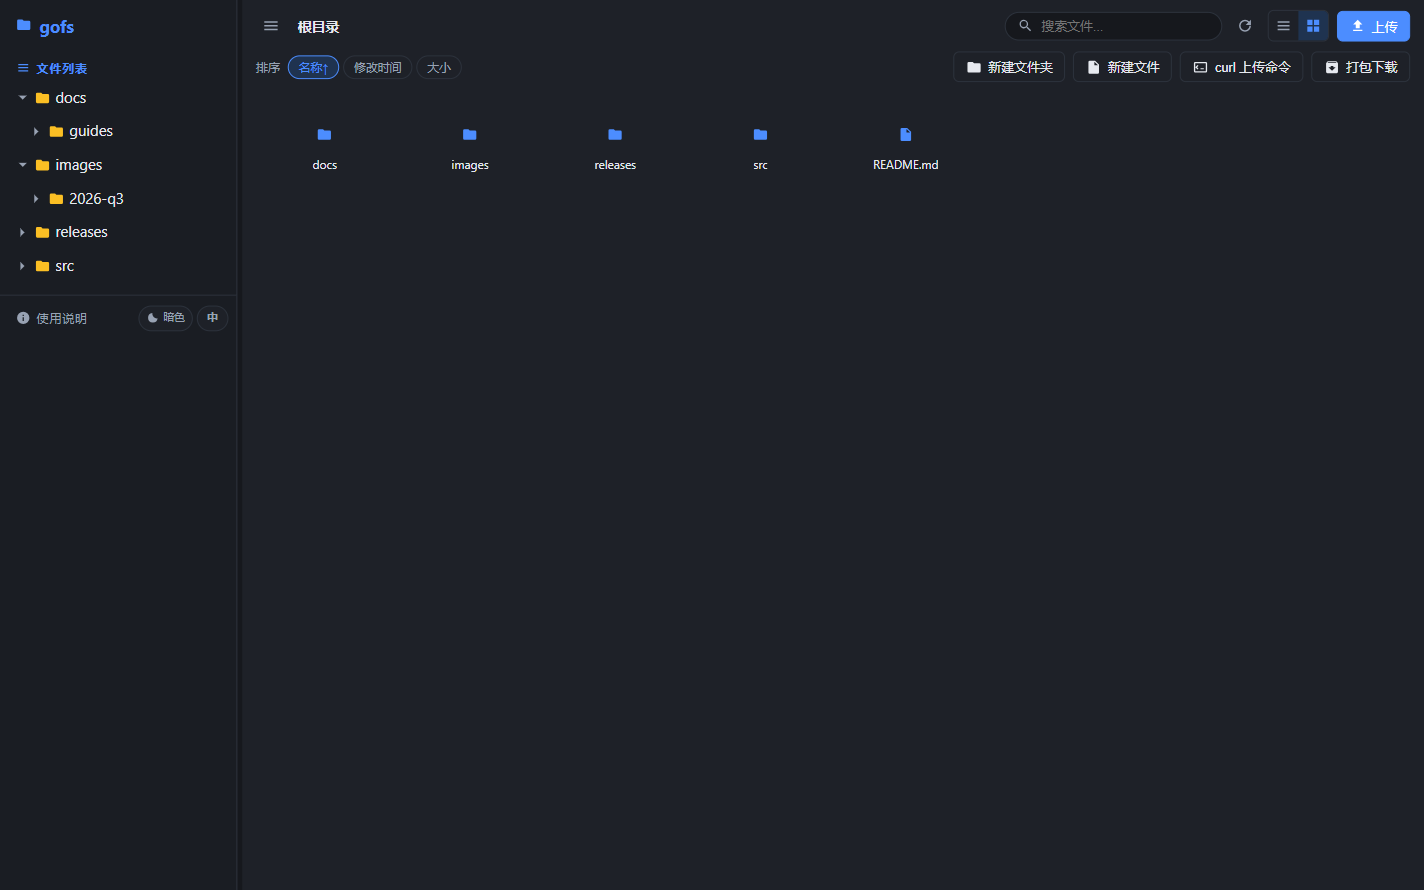
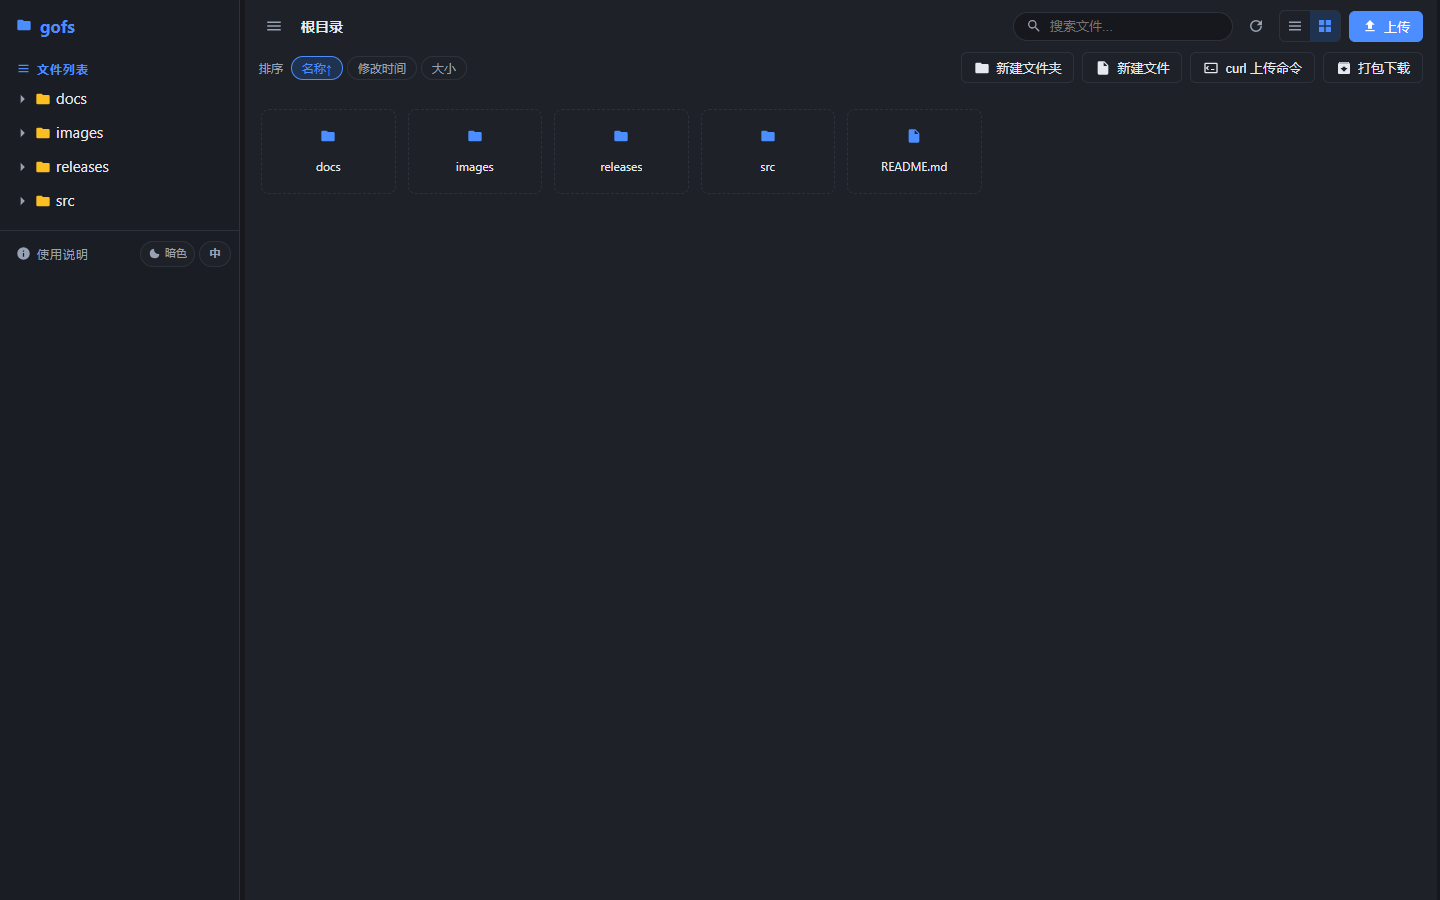
style(grid): give file cards a dashed border by default
The grid view cards previously had a transparent border that only became
visible on hover, which made the clickable area hard to read. Use a dashed
border so each card's bounds are visible at rest, and switch the hover
border to the accent color to keep the interaction affordance.

Regenerate docs/screenshots/03-grid-dark-zh.png to match the new look.

diff --git a/web/dist/assets/index-D7ygD6cJ.css b/web/dist/assets/index-D7ygD6cJ.css
@@ -1,0 +1,1 @@
+:root{--bg: #f7f8fa;--bg-panel: #ffffff;--bg-sidebar: #f0f2f5;--bg-hover: #eef1f6;--bg-active: #e6efff;--border: #e2e6ec;--text: #1f2733;--text-secondary: #6b7686;--accent: #3b82f6;--accent-hover: #2563eb;--accent-soft: #dbeafe;--danger: #ef4444;--danger-strong: #dc2626;--success: #22c55e;--warn: #f59e0b;--kind-media: #8b5cf6;--kind-archive: #d97706;--shadow: 0 4px 24px rgba(0, 0, 0, .12);--radius: 8px;color-scheme:light}:root[data-theme=dark]{--bg: #16181d;--bg-panel: #1e2128;--bg-sidebar: #1a1d23;--bg-hover: #262b34;--bg-active: #2b3a55;--border: #2c323c;--text: #e6e9ef;--text-secondary: #98a2b3;--accent: #4c8dff;--accent-hover: #6ba1ff;--accent-soft: #1f3350;--danger: #f87171;--danger-strong: #ef4444;--success: #4ade80;--warn: #fbbf24;--kind-media: #a78bfa;--kind-archive: #fbbf24;--shadow: 0 4px 24px rgba(0, 0, 0, .5);color-scheme:dark}*{box-sizing:border-box}html,body,#app{height:100%;margin:0}body{font-family:-apple-system,BlinkMacSystemFont,Segoe UI,PingFang SC,Microsoft YaHei,Roboto,Helvetica,Arial,sans-serif;color:var(--text);background:var(--bg);font-size:14px;line-height:1.5}.app{display:flex;height:100vh;overflow:hidden}.sidebar{width:240px;min-width:240px;background:var(--bg-sidebar);border-right:1px solid var(--border);display:flex;flex-direction:column}.sidebar-head{display:flex;align-items:center;justify-content:space-between;padding:14px 12px 12px 16px}.logo{display:flex;align-items:center;gap:8px;font-size:17px;font-weight:700;color:var(--accent)}.sidebar-body{flex:1;overflow-y:auto;padding:0 8px 12px}.sidebar-label{display:flex;align-items:center;gap:6px;font-size:12px;text-transform:uppercase;letter-spacing:.08em;color:var(--text-secondary);padding:8px 8px 4px}.sidebar-label-icon{display:inline-flex;align-items:center;line-height:0;flex-shrink:0}.sidebar-label-icon svg{display:block;width:15px;height:15px}.sidebar-foot{display:flex;align-items:center;gap:4px;padding:10px 8px;border-top:1px solid var(--border);color:var(--text-secondary);font-size:12px}.sidebar-settings{display:flex;align-items:center;gap:4px;margin-left:auto}.setting-btn{display:inline-flex;align-items:center;gap:4px;height:26px;padding:0 7px;border:1px solid var(--border);border-radius:13px;background:var(--bg-panel);color:var(--text-secondary);font-size:11px;cursor:pointer;transition:background .15s,color .15s,border-color .15s}.setting-btn:hover{background:var(--bg-hover);color:var(--text);border-color:var(--accent)}.setting-icon{display:inline-flex;align-items:center;line-height:0}.setting-icon svg{display:block;width:13px;height:13px}.setting-text{line-height:1;white-space:nowrap}.setting-lang{line-height:1;font-weight:600;letter-spacing:.02em;min-width:16px;text-align:center}.tree{list-style:none;margin:0;padding:0}.tree-children{list-style:none;margin:0;padding:0 0 0 14px}.tree-node{position:relative;display:flex;align-items:center;gap:5px;height:34px;padding:0 8px;border-radius:6px;cursor:pointer;white-space:nowrap;overflow:hidden;color:var(--text);font-size:15px;transition:padding-right .12s ease}.tree-icon{display:inline-flex;align-items:center;line-height:0}.tree-icon svg{display:block}.tree-node:hover{background:var(--bg-hover);padding-right:60px}.tree-node.active{background:var(--bg-active);color:var(--accent);font-weight:600}.tree-toggle{width:14px;flex-shrink:0;display:inline-flex;align-items:center;justify-content:center;color:var(--text-secondary)}.tree-icon{flex-shrink:0;color:var(--warn)}.tree-name{overflow:hidden;text-overflow:ellipsis}.main{flex:1;display:flex;flex-direction:column;overflow:hidden;background:var(--bg-panel)}.toolbar{border-bottom:1px solid var(--border);background:var(--bg-panel)}.toolbar-row{display:flex;align-items:center;gap:8px;padding:10px 14px}.toolbar-secondary{padding-top:0;padding-bottom:10px;flex-wrap:wrap}.toolbar-spacer{flex:1}.breadcrumb{display:flex;align-items:center;gap:2px;overflow:hidden;white-space:nowrap;min-width:0;flex:1}.crumb{color:var(--text-secondary);text-decoration:none;cursor:pointer;padding:2px 4px;border-radius:4px;max-width:180px;overflow:hidden;text-overflow:ellipsis;white-space:nowrap;flex-shrink:1;min-width:0}.crumb:hover{color:var(--accent);background:var(--bg-hover)}.crumb.current{color:var(--text);font-weight:600}.crumb-sep{color:var(--text-secondary);opacity:.6}.search-box{display:flex;align-items:center;gap:6px;background:var(--bg);border:1px solid var(--border);border-radius:16px;padding:5px 12px;color:var(--text-secondary);min-width:180px}.search-box input{border:none;outline:none;background:transparent;color:var(--text);font-size:13px;width:100%}.search-clear{border:none;background:none;color:var(--text-secondary);cursor:pointer;font-size:16px;line-height:1;padding:0}.view-toggle{display:flex;border:1px solid var(--border);border-radius:6px;overflow:hidden}.view-toggle .icon-btn{border-radius:0}.sort-group{display:flex;align-items:center;gap:4px}.sort-label{color:var(--text-secondary);font-size:12px;margin-right:4px}.chip{border:1px solid var(--border);background:transparent;color:var(--text-secondary);padding:3px 10px;border-radius:14px;cursor:pointer;font-size:12px}.chip:hover{background:var(--bg-hover)}.chip.active{background:var(--accent-soft);border-color:var(--accent);color:var(--accent)}.btn{display:inline-flex;align-items:center;gap:6px;border:1px solid var(--border);background:var(--bg-panel);color:var(--text);padding:6px 12px;border-radius:6px;cursor:pointer;font-size:13px}.btn>span,.icon-btn>span,.search-box>span,.file-icon{display:inline-flex;align-items:center;line-height:0}.btn svg,.icon-btn svg,.search-box svg,.file-icon svg{display:block;vertical-align:middle}.btn:hover{background:var(--bg-hover)}.btn-primary{background:var(--accent);border-color:var(--accent);color:#fff}.btn-primary:hover{background:var(--accent-hover)}.icon-btn{display:inline-flex;align-items:center;justify-content:center;border:none;background:transparent;color:var(--text-secondary);width:30px;height:30px;border-radius:6px;cursor:pointer}.icon-btn:hover{background:var(--bg-hover);color:var(--text)}.icon-btn.active{background:var(--accent-soft);color:var(--accent)}.icon-btn.danger:hover{color:var(--danger);background:#ef44441a}.file-area{flex:1;min-height:0;overflow-y:auto;position:relative}.file-loading{display:flex;flex-direction:row;align-items:center;justify-content:center;height:100%;color:var(--text-secondary);gap:12px}.file-list{min-width:620px}.file-list-head,.file-row{display:grid;grid-template-columns:minmax(220px,1fr) 90px 90px 140px 130px;align-items:center;gap:8px;padding:0 14px}.file-list-head{position:sticky;top:0;background:var(--bg-panel);border-bottom:1px solid var(--border);color:var(--text-secondary);font-size:12px;padding-top:8px;padding-bottom:8px;z-index:2}.file-row{border-bottom:1px solid var(--border);cursor:pointer;min-height:44px}.file-row:hover{background:var(--bg-hover)}.col-name{display:flex;align-items:center;gap:10px;overflow:hidden}.file-name{overflow:hidden;text-overflow:ellipsis;white-space:nowrap}.file-icon{display:inline-flex;flex-shrink:0;color:var(--text-secondary)}.file-icon.kind-dir{color:var(--warn)}.file-icon.kind-image,.file-icon.kind-video,.file-icon.kind-audio{color:var(--kind-media)}.file-icon.kind-pdf{color:var(--danger)}.file-icon.kind-code,.file-icon.kind-json,.file-icon.kind-markdown,.file-icon.kind-text{color:var(--accent)}.file-icon.kind-archive{color:var(--kind-archive)}.col-type,.col-size,.col-mtime{color:var(--text-secondary);font-size:13px;overflow:hidden;text-overflow:ellipsis;white-space:nowrap}.col-actions{display:flex;justify-content:flex-end;gap:2px;opacity:0;transition:opacity .15s}.file-row:hover .col-actions{opacity:1}.file-grid{display:grid;grid-template-columns:repeat(auto-fill,minmax(120px,1fr));gap:12px;padding:16px}.file-card{display:flex;flex-direction:column;align-items:center;gap:8px;padding:18px 8px;border:1px dashed var(--border);border-radius:var(--radius);cursor:pointer;transition:background .15s,border-color .15s}.file-card:hover{background:var(--bg-hover);border-color:var(--accent)}.file-card-icon{color:var(--text-secondary)}.file-card-icon.kind-dir{color:var(--warn)}.file-card-icon.kind-image,.file-card-icon.kind-video,.file-card-icon.kind-audio{color:var(--kind-media)}.file-card-icon.kind-pdf{color:var(--danger)}.file-card-icon.kind-code,.file-card-icon.kind-json,.file-card-icon.kind-markdown,.file-card-icon.kind-text{color:var(--accent)}.file-card-icon.kind-archive{color:var(--kind-archive)}.file-card-name{text-align:center;word-break:break-all;font-size:12px;max-width:100%;display:-webkit-box;-webkit-line-clamp:2;-webkit-box-orient:vertical;overflow:hidden}.error-banner{background:#ef44441a;color:var(--danger);padding:8px 14px;border-bottom:1px solid var(--border)}.spinner{display:inline-block;width:14px;height:14px;border:2px solid var(--border);border-top-color:var(--accent);border-radius:50%;animation:spin .7s linear infinite}@keyframes spin{to{transform:rotate(360deg)}}.preview-overlay{position:fixed;inset:0;background:#00000080;display:flex;align-items:center;justify-content:center;z-index:100;padding:24px}.preview-modal{width:min(960px,100%);height:min(720px,100%);background:var(--bg-panel);border-radius:var(--radius);box-shadow:var(--shadow);display:flex;flex-direction:column;overflow:hidden}.preview-head{display:flex;align-items:center;gap:12px;padding:12px 16px;border-bottom:1px solid var(--border)}.preview-title{font-weight:600;font-size:15px;overflow:hidden;text-overflow:ellipsis;white-space:nowrap}.preview-meta{color:var(--text-secondary);font-size:12px;white-space:nowrap}.preview-actions{margin-left:auto;display:flex;gap:6px}.preview-body{flex:1;overflow:auto;position:relative}.preview-center{display:flex;align-items:center;justify-content:center;height:100%;min-height:200px}.preview-center img{max-width:100%;max-height:100%;object-fit:contain}.preview-iframe{width:100%;height:100%;border:none}.audio-box{display:flex;flex-direction:column;align-items:center;gap:20px;color:var(--text-secondary)}.binary-box{display:flex;flex-direction:column;align-items:center;gap:8px;color:var(--text-secondary)}.binary-box p{margin:0}.preview-text{padding:16px}.preview-error{padding:40px;text-align:center;color:var(--text-secondary)}.code-block{font-family:SF Mono,JetBrains Mono,Fira Code,Menlo,Consolas,monospace;font-size:13px;line-height:1.6;white-space:pre;overflow:auto;margin:0;padding:16px;background:var(--bg);border-radius:var(--radius);border:1px solid var(--border)}.markdown-body{line-height:1.7;padding:8px}.markdown-body h1,.markdown-body h2,.markdown-body h3{border-bottom:1px solid var(--border);padding-bottom:6px}.markdown-body code{background:var(--bg);padding:2px 5px;border-radius:4px;font-family:SF Mono,Menlo,Consolas,monospace;font-size:.9em}.markdown-body pre{background:var(--bg);padding:12px;border-radius:6px;overflow:auto}.markdown-body pre code{background:none;padding:0}.editor-wrap{display:flex;flex-direction:column;gap:10px;height:100%}.editor{flex:1;min-height:320px;font-family:SF Mono,Menlo,Consolas,monospace;font-size:13px;line-height:1.6;padding:12px;background:var(--bg);color:var(--text);border:1px solid var(--border);border-radius:var(--radius);resize:none;outline:none}.editor-actions{display:flex;gap:8px;justify-content:flex-end}.preview-foot{display:flex;align-items:center;gap:6px;padding:6px 12px 6px 16px;border-top:1px solid var(--border);overflow:hidden;white-space:nowrap}.preview-hash{flex:1;min-width:0;overflow:hidden;text-overflow:ellipsis;font-family:ui-monospace,SFMono-Regular,Menlo,Consolas,monospace}.hash-copy{flex-shrink:0;width:24px;height:24px}.hash-copy svg{width:14px;height:14px}.upload-manager{position:fixed;right:16px;bottom:16px;width:320px;z-index:90;display:flex;flex-direction:column;gap:8px}.upload-item{background:var(--bg-panel);border:1px solid var(--border);border-radius:var(--radius);box-shadow:var(--shadow);padding:10px 12px}.upload-info{display:flex;justify-content:space-between;align-items:center;margin-bottom:6px}.upload-name{overflow:hidden;text-overflow:ellipsis;white-space:nowrap;font-size:13px}.upload-status.done{color:var(--success)}.upload-status.error{color:var(--danger)}.upload-bar{height:4px;background:var(--bg);border-radius:2px;overflow:hidden}.upload-bar-fill{height:100%;background:var(--accent);transition:width .2s}.upload-bar-fill.done{background:var(--success)}.upload-bar-fill.error{background:var(--danger)}.upload-percent{font-size:11px;color:var(--text-secondary);display:block;text-align:right;margin-top:4px}.modal-overlay{position:fixed;inset:0;background:#00000073;display:flex;align-items:center;justify-content:center;z-index:1000}.modal-box{background:var(--bg-panel);border-radius:var(--radius);box-shadow:var(--shadow);padding:20px;width:380px;max-width:90vw}.modal-title{font-size:15px;font-weight:600;margin-bottom:12px;color:var(--text)}.modal-message{font-size:13px;color:var(--text-secondary);margin-bottom:16px;line-height:1.6}.modal-input{width:100%;padding:8px 12px;border:1px solid var(--border);border-radius:6px;font-size:13px;background:var(--bg);color:var(--text);margin-bottom:16px;box-sizing:border-box}.modal-input:focus{outline:none;border-color:var(--accent)}.modal-actions{display:flex;justify-content:flex-end;gap:8px}.btn-danger{background:var(--danger);color:#fff;border-color:var(--danger)}.btn-danger:hover{background:var(--danger-strong)}#toast-container{position:fixed;top:20px;right:20px;z-index:2000;display:flex;flex-direction:column;gap:8px}.toast{padding:10px 16px;border-radius:6px;box-shadow:var(--shadow);font-size:13px;background:var(--bg-panel);color:var(--text);border-left:3px solid var(--accent);animation:toast-in .2s ease;max-width:420px;word-break:break-all}.toast.success{border-left-color:var(--success)}.toast.error{border-left-color:var(--danger)}@keyframes toast-in{0%{opacity:0;transform:translate(20px)}to{opacity:1;transform:translate(0)}}.preview-modal-editing{width:90vw;max-width:1100px;height:85vh}.preview-dirty{font-size:12px;color:var(--warn);margin-left:8px;align-self:center}.editor-textarea{width:100%;height:100%;min-height:50vh;resize:none;border:1px solid var(--border);border-radius:6px;padding:12px;font-family:ui-monospace,SFMono-Regular,Menlo,Consolas,monospace;font-size:13px;line-height:1.6;background:var(--bg);color:var(--text);box-sizing:border-box}.editor-textarea:focus{outline:none;border-color:var(--accent)}.editor-preview{overflow:auto;height:100%;padding:8px 12px}.splitter{width:5px;cursor:col-resize;background:transparent;flex-shrink:0;transition:background .15s}.splitter:hover,.splitter:active{background:var(--accent-soft)}.sidebar{min-width:0}.help-btn{display:inline-flex;align-items:center;gap:6px;border:none;background:transparent;color:var(--text-secondary);font-size:12px;letter-spacing:.08em;cursor:pointer;padding:4px 8px;border-radius:6px}.help-btn:hover{background:var(--bg-hover);color:var(--text)}.help-btn-icon{display:inline-flex;align-items:center;line-height:0;flex-shrink:0}.help-btn-icon svg{display:block;width:15px;height:15px}.help-box{width:760px;max-width:94vw;height:84vh;max-height:720px;display:flex;flex-direction:column}.help-head{display:flex;align-items:center;gap:6px;margin-bottom:10px}.help-head .modal-title{margin:0}.help-head .btn{font-size:13px;padding:5px 10px}.help-tabs{display:flex;align-items:center;gap:4px}.help-tab{border:none;background:transparent;color:var(--text-secondary);font-size:13px;padding:6px 12px;border-radius:6px;cursor:pointer;transition:background .15s,color .15s}.help-tab:hover{background:var(--bg-hover);color:var(--text)}.help-tab.active{background:var(--accent-soft);color:var(--accent);font-weight:600}.help-agent{padding-right:4px}.help-md{margin:0;font-family:ui-monospace,SFMono-Regular,Menlo,Consolas,monospace;font-size:12px;line-height:1.45;white-space:pre-wrap;word-break:break-word;color:var(--text)}.help-content{flex:1;min-height:0;overflow-y:auto;font-size:13px;color:var(--text);line-height:1.7}.help-content h4{margin:14px 0 6px;font-size:13px;color:var(--accent)}.help-content h4:first-child{margin-top:0}.help-content ul{margin:0;padding-left:20px}.help-content li{margin:3px 0;color:var(--text-secondary)}.help-content code{background:var(--bg-hover);padding:1px 5px;border-radius:4px;font-size:12px;word-break:break-all}.tree-root-entry{font-weight:600}.sidebar-label-clickable{cursor:pointer;border-radius:6px;transition:background .15s,color .15s}.sidebar-label-clickable:hover{background:var(--bg-hover);color:var(--text)}.sidebar-label-clickable.active{color:var(--accent);font-weight:700}.tree-name{flex:1;min-width:0;overflow:hidden;text-overflow:ellipsis;white-space:nowrap}.tree-actions{position:absolute;right:4px;top:50%;transform:translateY(-50%);display:inline-flex;align-items:center;gap:2px;opacity:0;pointer-events:none;transition:opacity .12s}.tree-node:hover .tree-actions,.tree-node:focus-within .tree-actions{opacity:1;pointer-events:auto}.tree-action-btn{display:inline-flex;align-items:center;justify-content:center;width:18px;height:20px;padding:0;border:none;border-radius:4px;background:transparent;color:var(--text-secondary);cursor:pointer;transition:background .15s,color .15s}.tree-action-btn:hover{background:var(--bg-active);color:var(--accent)}.tree-action-btn.danger:hover{color:var(--danger-strong)}.tree-action-btn :deep(svg),.tree-action-btn svg{display:block;width:14px;height:14px}.help-page{display:flex;flex-direction:column;flex:1;min-height:0;overflow:hidden}.help-page-head{display:flex;align-items:center;gap:8px;padding:10px 14px;border-bottom:1px solid var(--border)}.help-page-title{font-size:15px;font-weight:600;color:var(--text)}.help-page-body{flex:1;min-height:0;overflow:auto;padding:16px 18px 28px;background:var(--bg-panel)}.help-md{margin:0;font-family:ui-monospace,SFMono-Regular,Menlo,Consolas,monospace;font-size:13px;line-height:1.75;color:var(--text);white-space:pre-wrap;word-break:break-word;user-select:text}

diff --git a/web/src/style.css b/web/src/style.css
@@ -617,7 +617,8 @@ body {
   align-items: center;
   gap: 8px;
   padding: 18px 8px;
-  border: 1px solid transparent;
+  /* 默认即显示虚线边界，便于看清每个卡片的作用范围 */
+  border: 1px dashed var(--border);
   border-radius: var(--radius);
   cursor: pointer;
   transition: background 0.15s, border-color 0.15s;
@@ -625,7 +626,7 @@ body {
 
 .file-card:hover {
   background: var(--bg-hover);
-  border-color: var(--border);
+  border-color: var(--accent);
 }
 
 .file-card-icon {

diff --git a/web/dist/index.html b/web/dist/index.html
@@ -23,8 +23,8 @@
         } catch (e) {}
       })()
     </script>
-    <script type="module" crossorigin src="/__GOFS_ASSETS__/assets/index-C9znKS8r.js"></script>
-    <link rel="stylesheet" crossorigin href="/__GOFS_ASSETS__/assets/index-B6Liy7Pi.css">
+    <script type="module" crossorigin src="/__GOFS_ASSETS__/assets/index-Cz2o2zW3.js"></script>
+    <link rel="stylesheet" crossorigin href="/__GOFS_ASSETS__/assets/index-D7ygD6cJ.css">
   </head>
   <body>
     <div id="app"></div>
